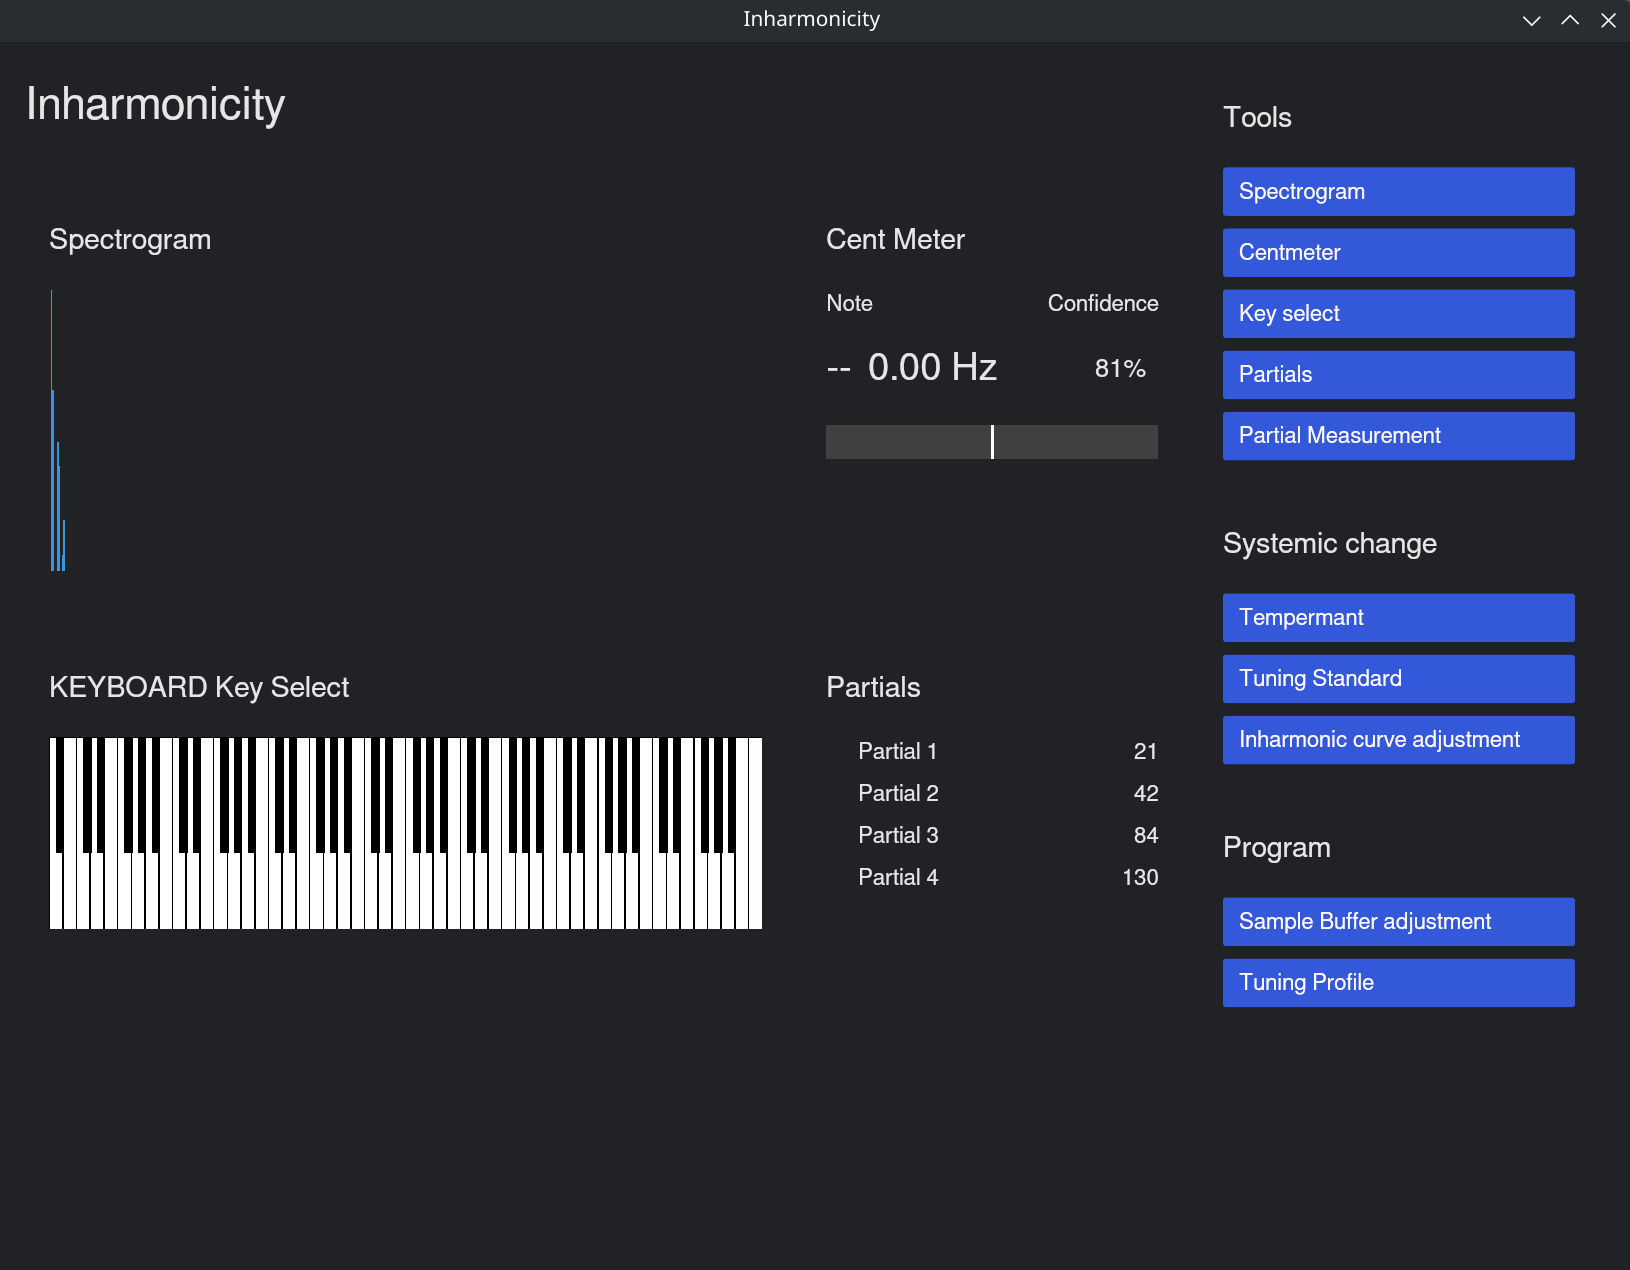
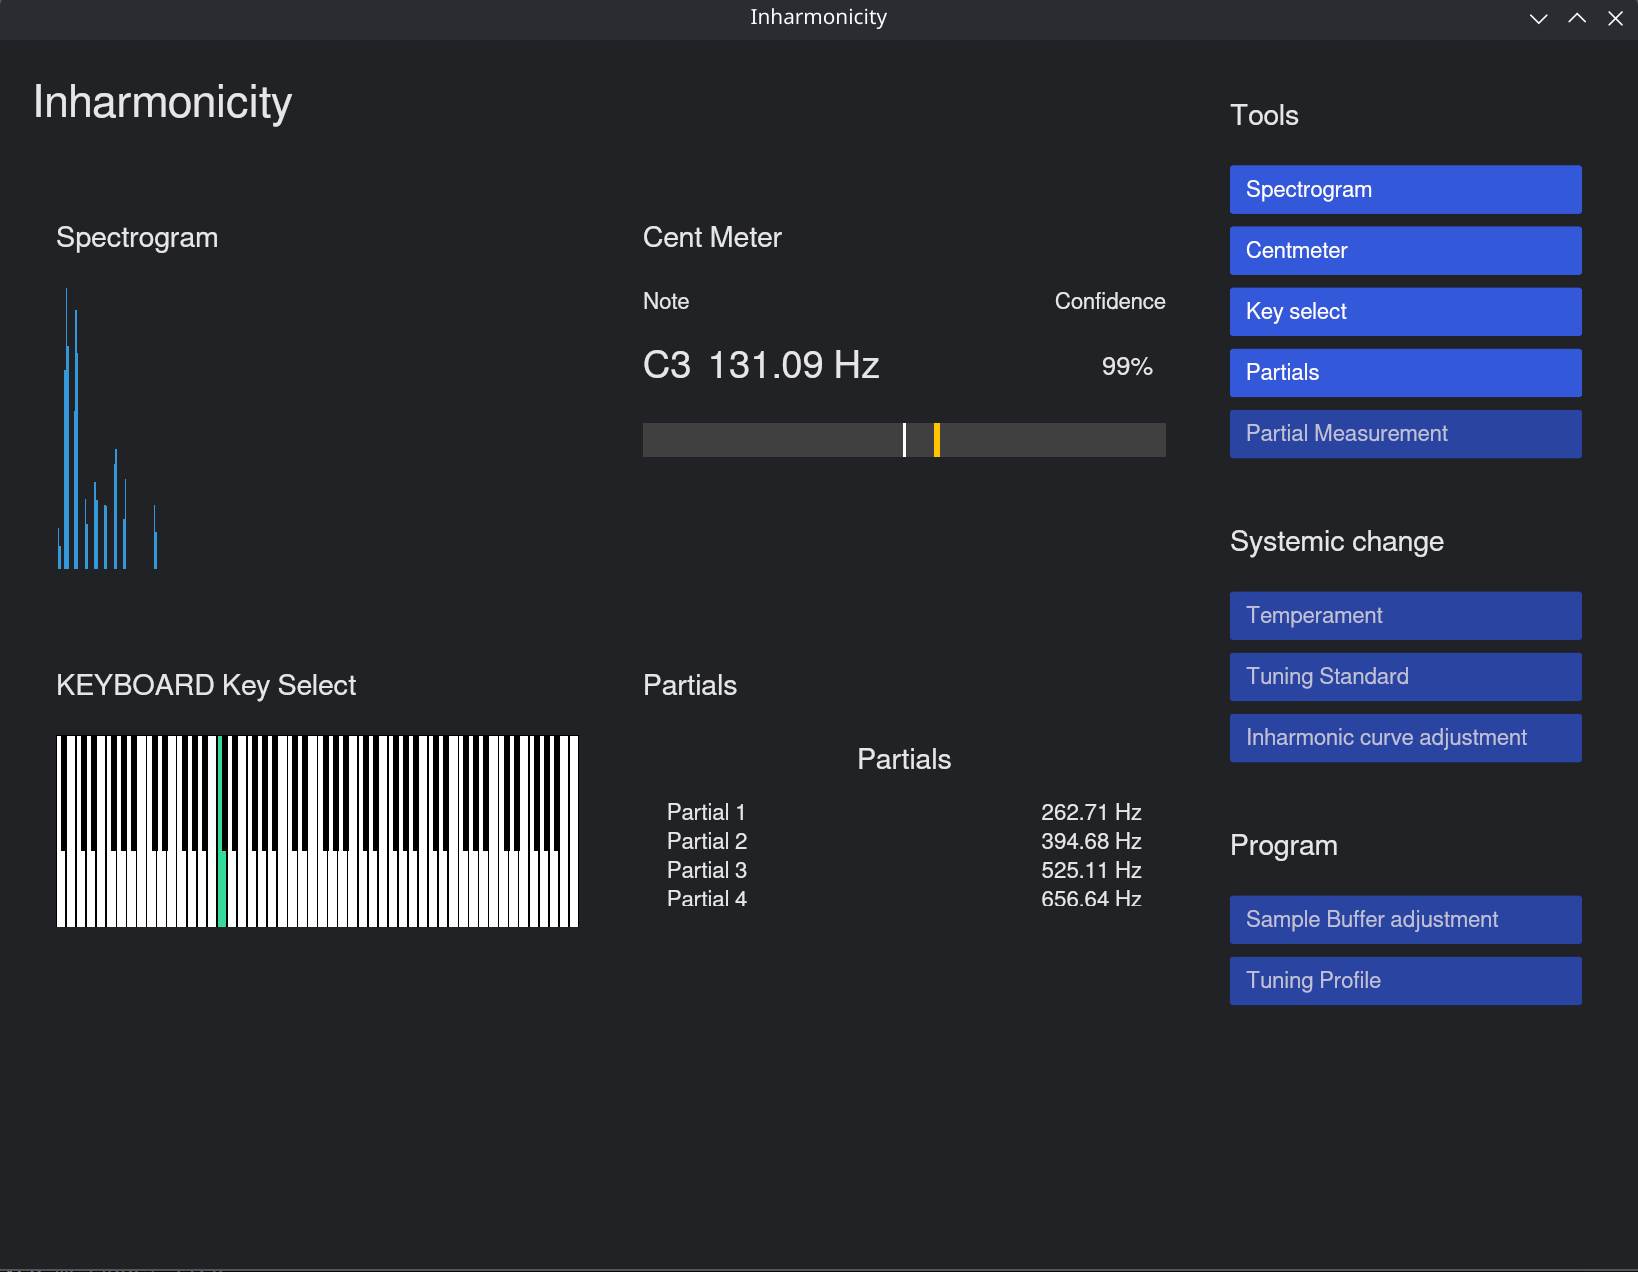
edit readme & move redundant code blocks for future use

diff --git a/tuner-core/src/pitch.rs b/tuner-core/src/pitch.rs
@@ -11,78 +11,6 @@
 //! - Parabolic interpolation for sub-sample accuracy
 //! - Spectrum refinement for improved precision
 
-/// A robust implementation of the YIN pitch detection algorithm.
-/// 
-/// This version is optimized for piano tuning with several enhancements:
-/// - Octave error prevention through careful threshold selection
-/// - Noise rejection using clarity checking
-/// - Parabolic interpolation for sub-sample accuracy
-/// - Amplitude gating to filter out silence
-/// 
-/// # Arguments
-/// * `signal` - Input audio signal
-/// * `sample_rate` - Sample rate in Hz
-/// * `amplitude_threshold` - Minimum amplitude for pitch detection
-/// 
-/// # Returns
-/// * `Some(frequency)` - Detected frequency in Hz
-/// * `None` - No pitch detected (silence, noise, or invalid signal)
-pub fn detect_pitch_yin(
-    signal: &[f32],
-    sample_rate: u32,
-    amplitude_threshold: f32,
-) -> Option<f32> {
-    let frame_size = signal.len();
-    let mut yin_buffer = vec![0.0; frame_size / 2];
-
-    // --- Noise Gate: Calculate RMS to filter out silence/noise ---
-    let rms = (signal.iter().map(|&s| s * s).sum::<f32>() / frame_size as f32).sqrt();
-    if rms < amplitude_threshold {
-        return None;
-    }
-
-    // --- Steps 1-3: Calculate the YIN buffer ---
-    yin_difference(signal, frame_size, &mut yin_buffer);
-
-    // --- Step 4 & 5: Find the first significant dip to avoid octave errors ---
-    let mut period = 0;
-    let threshold = 0.10; // Fixed threshold
-
-    for tau in 2..(frame_size / 2) {
-        if yin_buffer[tau] < threshold {
-            // Now check if this is a local minimum
-            if yin_buffer[tau] < yin_buffer[tau-1] {
-                period = tau;
-                break;
-            }
-        }
-    }
-    
-    if period == 0 {
-        return None;
-    }
-
-    // --- Step 6: Parabolic interpolation ---
-    if period + 1 >= frame_size / 2 { 
-        return None;
-    }
-
-    let y1 = yin_buffer[period - 1];
-    let y2 = yin_buffer[period];
-    let y3 = yin_buffer[period + 1];
-
-    let offset = parabolic_interpolation_offset(y1, y2, y3).unwrap_or(0.0);
-    let period_float = period as f32 + offset;
-
-    let frequency = sample_rate as f32 / period_float;
-
-    if frequency.is_finite() && frequency > 20.0 {
-        Some(frequency)
-    } else {
-        None
-    }   
-}
-
 /// A robust implementation of the pYIN pitch detection algorithm (stateless).
 ///
 /// This version finds the most probable pitch candidate within a single frame
@@ -399,4 +327,78 @@ fn parabolic_interpolation_offset(y_left: f32, y_center: f32, y_right: f32) -> O
 
     let offset = (y_left - y_right) / (2.0 * denominator);
     Some(offset)
+}
+
+/// Optional algorithms for pitch detection:
+
+/// A robust implementation of the YIN pitch detection algorithm.
+/// 
+/// This version is optimized for piano tuning with several enhancements:
+/// - Octave error prevention through careful threshold selection
+/// - Noise rejection using clarity checking
+/// - Parabolic interpolation for sub-sample accuracy
+/// - Amplitude gating to filter out silence
+/// 
+/// # Arguments
+/// * `signal` - Input audio signal
+/// * `sample_rate` - Sample rate in Hz
+/// * `amplitude_threshold` - Minimum amplitude for pitch detection
+/// 
+/// # Returns
+/// * `Some(frequency)` - Detected frequency in Hz
+/// * `None` - No pitch detected (silence, noise, or invalid signal)
+pub fn detect_pitch_yin(
+    signal: &[f32],
+    sample_rate: u32,
+    amplitude_threshold: f32,
+) -> Option<f32> {
+    let frame_size = signal.len();
+    let mut yin_buffer = vec![0.0; frame_size / 2];
+
+    // --- Noise Gate: Calculate RMS to filter out silence/noise ---
+    let rms = (signal.iter().map(|&s| s * s).sum::<f32>() / frame_size as f32).sqrt();
+    if rms < amplitude_threshold {
+        return None;
+    }
+
+    // --- Steps 1-3: Calculate the YIN buffer ---
+    yin_difference(signal, frame_size, &mut yin_buffer);
+
+    // --- Step 4 & 5: Find the first significant dip to avoid octave errors ---
+    let mut period = 0;
+    let threshold = 0.10; // Fixed threshold
+
+    for tau in 2..(frame_size / 2) {
+        if yin_buffer[tau] < threshold {
+            // Now check if this is a local minimum
+            if yin_buffer[tau] < yin_buffer[tau-1] {
+                period = tau;
+                break;
+            }
+        }
+    }
+    
+    if period == 0 {
+        return None;
+    }
+
+    // --- Step 6: Parabolic interpolation ---
+    if period + 1 >= frame_size / 2 { 
+        return None;
+    }
+
+    let y1 = yin_buffer[period - 1];
+    let y2 = yin_buffer[period];
+    let y3 = yin_buffer[period + 1];
+
+    let offset = parabolic_interpolation_offset(y1, y2, y3).unwrap_or(0.0);
+    let period_float = period as f32 + offset;
+
+    let frequency = sample_rate as f32 / period_float;
+
+    if frequency.is_finite() && frequency > 20.0 {
+        Some(frequency)
+    } else {
+        None
+    }   
 }

diff --git a/README.md b/README.md
@@ -12,11 +12,11 @@ An open source professional-grade piano tuning application built in Rust with re
 - **Spectrogram Visualization**: Real-time frequency spectrum display
 - **Cent Meter**: Visual tuning accuracy indicator with color-coded feedback
 - **Interactive Piano Keyboard**: 88-key piano interface with click-to-select frequency functionality
+- **Cent Meter Confidence**: Probabilistic confidence value for auto-detected notes
+- **Partials Analysis**: Harmonic partial frequency display
 
 ### Planned Features
 
-- **Cent Meter Confidence**: Probabilistic confidence value for auto-detected notes
-- **Partials Analysis**: Harmonic partial frequency display
 - **Inharmonicity Compensation**: Professional piano-specific tuning curves
 - **Buffer Size Selection**: Choice between 2048 and 4096 sample buffers
 
@@ -36,7 +36,7 @@ inharmonicity/
 │   ├── src/
 │   │   ├── audio.rs     # CPAL audio capture and stream management
 │   │   ├── fft.rs       # FFT processing and spectrum analysis
-│   │   ├── pitch.rs     # YIN pitch detection algorithm
+│   │   ├── pitch.rs     # stateless pYIN pitch detection algorithm
 │   │   └── tuning.rs    # Musical note calculations and cent deviation, inharmonicity curve calculation
 │   └── Cargo.toml
 ├── tuner-gui/           # Iced-based GUI application
@@ -97,7 +97,6 @@ cargo run -p tuner-gui
 - **Temperament Settings**: Various tuning temperaments (Equal, Just, etc.)
 - **Tuning Profiles**: Save/load custom tuning configurations
 - **Sample Buffer Adjustment**: Configurable audio buffer sizes (2048/4096)
-- **Probabilistic YIN**: Confidence values for auto-detected notes
 - **Audio Device Selection**: Choose input device from GUI
 - **Export Functionality**: Save tuning data and reports
 
@@ -109,15 +108,9 @@ The application features a professional layout with:
 
 1. **Spectrogram Panel**: Real-time frequency spectrum visualization
 2. **Cent Meter**: Tuning accuracy indicator (-50 to +50 cents)
-3. **Piano Keyboard**: Interactive 88-key piano for manual key selection
+3. **Piano Keyboard**: Interactive 88-key piano for manual note selection
 4. **Partials Panel**: Harmonic partial frequency display
 5. **Control Sidebar**: Tool visibility toggles and settings
-
-### Working Tools
-
-- **Spectrogram**: Toggle visibility of frequency spectrum display
-- **Cent Meter**: Toggle visibility of tuning accuracy meter
-- **Key Select**: Toggle visibility of interactive piano keyboard
 
 ## ⚠ Known Issues
 
